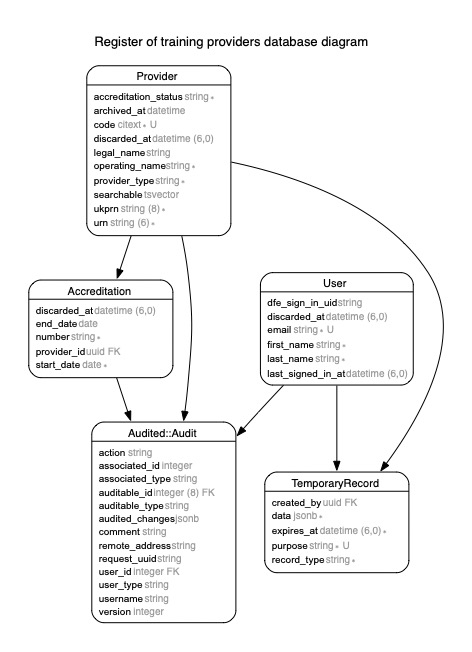
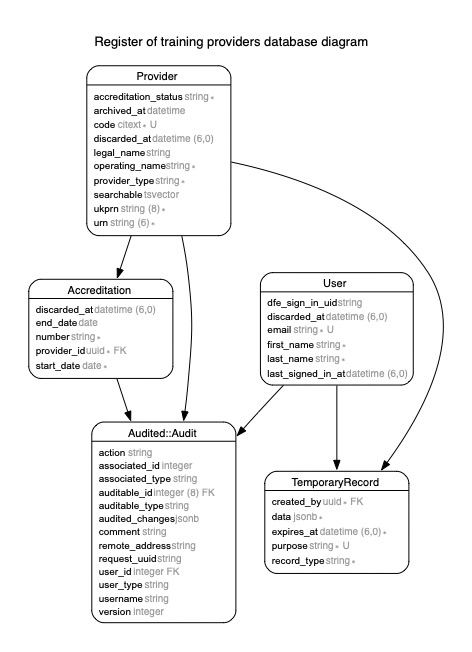
[195] - fix database inconsistencies

diff --git a/db/schema.rb b/db/schema.rb
@@ -10,7 +10,7 @@
 #
 # It's strongly recommended that you check this file into your version control system.
 
-ActiveRecord::Schema[8.0].define(version: 2025_09_17_082800) do
+ActiveRecord::Schema[8.0].define(version: 2025_09_16_154436) do
   # These are extensions that must be enabled in order to support this database
   enable_extension "citext"
   enable_extension "pgcrypto"
@@ -22,10 +22,9 @@ ActiveRecord::Schema[8.0].define(version: 2025_09_17_082800) do
     t.datetime "created_at", null: false
     t.datetime "updated_at", null: false
     t.datetime "discarded_at"
-    t.uuid "provider_id"
+    t.uuid "provider_id", null: false
     t.index ["discarded_at"], name: "index_accreditations_on_discarded_at"
     t.index ["end_date"], name: "index_accreditations_on_end_date"
-    t.index ["id"], name: "index_accreditations_on_id", unique: true
     t.index ["number"], name: "index_accreditations_on_number"
     t.index ["provider_id"], name: "index_accreditations_on_provider_id"
     t.index ["start_date"], name: "index_accreditations_on_start_date"
@@ -70,7 +69,6 @@ ActiveRecord::Schema[8.0].define(version: 2025_09_17_082800) do
     t.index ["archived_at"], name: "index_providers_on_archived_at"
     t.index ["code"], name: "index_providers_on_code", unique: true
     t.index ["discarded_at"], name: "index_providers_on_discarded_at"
-    t.index ["id"], name: "index_providers_on_id", unique: true
     t.index ["legal_name"], name: "index_providers_on_legal_name"
     t.index ["provider_type"], name: "index_providers_on_provider_type"
     t.index ["searchable"], name: "index_providers_on_searchable", using: :gin
@@ -206,10 +204,8 @@ ActiveRecord::Schema[8.0].define(version: 2025_09_17_082800) do
     t.string "purpose", default: "0", null: false
     t.datetime "created_at", null: false
     t.datetime "updated_at", null: false
-    t.uuid "created_by"
-    t.index ["created_by", "record_type", "purpose"],
-            name: "index_temporary_records_on_created_by_record_type_purpose", unique: true
-    t.index ["created_by"], name: "index_temporary_records_on_created_by"
+    t.uuid "created_by", null: false
+    t.index ["created_by", "record_type", "purpose"], name: "index_temporary_records_on_created_by_record_type_purpose", unique: true
     t.index ["expires_at"], name: "index_temporary_records_on_expires_at"
   end
 
@@ -224,7 +220,6 @@ ActiveRecord::Schema[8.0].define(version: 2025_09_17_082800) do
     t.datetime "updated_at", null: false
     t.index ["discarded_at"], name: "index_users_on_discarded_at"
     t.index ["email"], name: "index_users_on_email", unique: true
-    t.index ["id"], name: "index_users_on_id", unique: true
   end
 
   add_foreign_key "accreditations", "providers"

diff --git a/db/migrate/20250916154436_convert_users_to_uuid_primary_key.rb b/db/migrate/20250916154436_convert_users_to_uuid_primary_key.rb
@@ -27,15 +27,24 @@ class ConvertUsersToUuidPrimaryKey < ActiveRecord::Migration[8.0]
     # Drop the old bigint id column
     remove_column :users, :id
 
+    # Remove the old unique index on uuid column (will be redundant with PRIMARY KEY)
+    remove_index :users, :uuid
+
     # Rename uuid column to id and make it the primary key
     rename_column :users, :uuid, :id # rubocop:disable Rails/DangerousColumnNames
     execute "ALTER TABLE users ADD PRIMARY KEY (id)"
 
+    # Add NOT NULL constraint to the foreign key column
+    change_column_null :temporary_records, :created_by, false
+
     # Re-add the foreign key constraint
     add_foreign_key :temporary_records, :users, column: :created_by, primary_key: :id
 
-    # Add index for the new foreign key
-    add_index :temporary_records, :created_by
+    # Add the missing unique index that should have been there from the beginning
+    # This composite index also serves as an index for created_by column queries
+    add_index :temporary_records,
+              [:created_by, :record_type, :purpose], unique: true,
+                                                     name: "index_temporary_records_on_created_by_record_type_purpose"
   end
 
   def down

diff --git a/app/models/accreditation.rb b/app/models/accreditation.rb
@@ -9,13 +9,12 @@
 #  start_date   :date             not null
 #  created_at   :datetime         not null
 #  updated_at   :datetime         not null
-#  provider_id  :uuid
+#  provider_id  :uuid             not null
 #
 # Indexes
 #
 #  index_accreditations_on_discarded_at  (discarded_at)
 #  index_accreditations_on_end_date      (end_date)
-#  index_accreditations_on_id            (id) UNIQUE
 #  index_accreditations_on_number        (number)
 #  index_accreditations_on_provider_id   (provider_id)
 #  index_accreditations_on_start_date    (start_date)
@@ -25,7 +24,7 @@
 #  fk_rails_...  (provider_id => providers.id)
 #
 class Accreditation < ApplicationRecord
-  self.primary_key = "id"
+  self.implicit_order_column = :created_at
   include Discard::Model
   include SaveAsTemporary
 

diff --git a/db/migrate/20250916144007_convert_providers_to_uuid_primary_key.rb b/db/migrate/20250916144007_convert_providers_to_uuid_primary_key.rb
@@ -27,9 +27,15 @@ class ConvertProvidersToUuidPrimaryKey < ActiveRecord::Migration[8.0]
     # Drop the old bigint id column
     remove_column :providers, :id
 
+    # Remove the old unique index on uuid column (will be redundant with PRIMARY KEY)
+    remove_index :providers, :uuid
+
     # Rename uuid column to id and make it the primary key
     rename_column :providers, :uuid, :id # rubocop:disable Rails/DangerousColumnNames
     execute "ALTER TABLE providers ADD PRIMARY KEY (id)"
+
+    # Add NOT NULL constraint to the foreign key column
+    change_column_null :accreditations, :provider_id, false
 
     # Re-add the foreign key constraint
     add_foreign_key :accreditations, :providers, column: :provider_id, primary_key: :id

diff --git a/app/models/provider.rb b/app/models/provider.rb
@@ -22,7 +22,6 @@
 #  index_providers_on_archived_at           (archived_at)
 #  index_providers_on_code                  (code) UNIQUE
 #  index_providers_on_discarded_at          (discarded_at)
-#  index_providers_on_id                    (id) UNIQUE
 #  index_providers_on_legal_name            (legal_name)
 #  index_providers_on_provider_type         (provider_type)
 #  index_providers_on_searchable            (searchable) USING gin
@@ -30,7 +29,7 @@
 #  index_providers_on_urn                   (urn)
 #
 class Provider < ApplicationRecord
-  self.primary_key = "id"
+  self.implicit_order_column = :created_at
   include PgSearch::Model
   include Discard::Model
 

diff --git a/db/migrate/20250916144014_convert_accreditations_to_uuid_primary_key.rb b/db/migrate/20250916144014_convert_accreditations_to_uuid_primary_key.rb
@@ -11,11 +11,14 @@ class ConvertAccreditationsToUuidPrimaryKey < ActiveRecord::Migration[8.0]
       # Add default UUID generation to the uuid column (it currently has none)
       t.change_default :uuid, -> { "gen_random_uuid()" }
 
+      # Remove the old unique index on uuid column (will be redundant with PRIMARY KEY)
+      t.remove_index :uuid
+
       # Rename uuid column to id
       t.rename :uuid, :id # rubocop:disable Rails/DangerousColumnNames
     end
 
-    # Add the new primary key constraint
+    # Add the new primary key constraint (this automatically creates a unique index)
     execute "ALTER TABLE accreditations ADD PRIMARY KEY (id)"
   end
 

diff --git a/app/models/temporary_record.rb b/app/models/temporary_record.rb
@@ -3,7 +3,7 @@
 # Table name: temporary_records
 #
 #  id          :bigint           not null, primary key
-#  created_by  :uuid
+#  created_by  :uuid             not null
 #  data        :jsonb            not null
 #  expires_at  :datetime         not null
 #  purpose     :string           default(NULL), not null
@@ -13,7 +13,6 @@
 #
 # Indexes
 #
-#  index_temporary_records_on_created_by                      (created_by)
 #  index_temporary_records_on_created_by_record_type_purpose  (created_by,record_type,purpose) UNIQUE
 #  index_temporary_records_on_expires_at                      (expires_at)
 #

diff --git a/app/models/user.rb b/app/models/user.rb
@@ -16,11 +16,10 @@
 #
 #  index_users_on_discarded_at  (discarded_at)
 #  index_users_on_email         (email) UNIQUE
-#  index_users_on_id            (id) UNIQUE
 #
 
 class User < ApplicationRecord
-  self.primary_key = "id"
+  self.implicit_order_column = :created_at
   include Discard::Model
   include SaveAsTemporary
 

diff --git a/app/models/persona.rb b/app/models/persona.rb
@@ -16,7 +16,6 @@
 #
 #  index_users_on_discarded_at  (discarded_at)
 #  index_users_on_email         (email) UNIQUE
-#  index_users_on_id            (id) UNIQUE
 #
 
 class Persona < User
